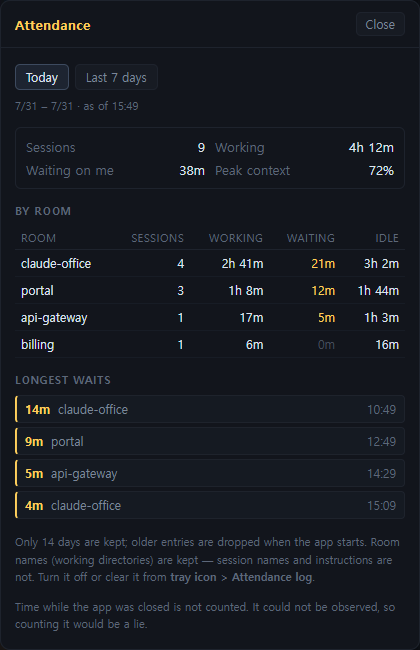
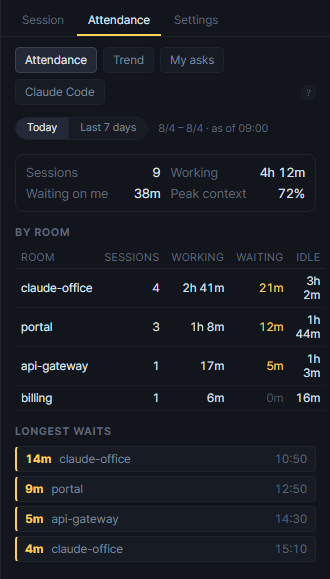
docs: 캡처를 새 화면으로 다시 굽고 README·문서를 맞춘다 (#116)
5단계로 나눈 UI/UX 정리의 마무리. 앞 커밋에서 아이콘을 도형으로 바꾸고 미니 위계를 맞췄고,
여기서는 캡처와 문서를 화면과 일치시킨다.

## 캡처 여덟 장 (docs/images/{en,ko}/)

- `office.png` — 목록 열 · 대기 칩 · 패널 탭이 다 든 전경
- `waiting.png` — 대기 방만 잘라 2배로. 말풍선에 **무엇을 묻는지**가 실려 있다
- `panel.png` — 대기 카드 · 접힌 요약 · 바닥 고정 버튼이 보이는 세션 판
- `attendance.png` — 창이 아니라 패널 판이라 420px → 330px

굽는 동안 걸린 것을 `docs/architecture.md`의 "디버그 입구"에 넷 더 적었다:

- **페이지의 `Date`를 픽스처의 "지금"으로 고정해야 한다.** 실제 시계로 찍으면 `0분`·`방금`이 박힌다
- 창을 갈아 끼울 때 앞 창을 먼저 없애면 앱이 종료돼 다음 로드가 `ERR_FAILED`로 끊긴다
- **말풍선이 떠 있는 순간은 찍어서 골라야 한다** — 8초 주기로 4.8초만 뜨고 위상이 흩어져 있다.
  흰 픽셀을 세고, 기다리는 게는 세 줄을 돌리므로 24초를 훑어 **가장 넓은** 것을 고른다
- 패널을 내용 높이에 맞출 때 `scrollHeight`는 못 쓴다 — 내용이 짧으면 상자 높이를 돌려준다

`__office.layout`을 디버그 입구에 냈다. 방이 화면 어디인지는 캔버스라 DOM으로 물어볼 수 없는데,
캡처를 방에 딱 맞게 자르려면 그 답이 필요하다.

## 문서

- README 두 언어 — 대기 칩 · 세션 목록 · 양쪽 접기 · 패널 세 판 · 요약 접기 · 바닥 고정,
  그리고 사라진 큰 시계
- `docs/panel.md` — 머리말을 판 셋 구조로 다시 쓰고, 330px에서 방 탭이 넘쳐 줄을 접은 경위를 남겼다
- `docs/attendance.md` — 창이 아니라 판이다. 캡션이 하나로 합쳐진 것도
- `docs/architecture.md` — 파일 지도의 renderer 항목, 그리고 손댈 만한 곳에 세 항목:
  `style.css`(리터럴 hex는 정의부 밖에 없다 · `display`를 정하면 `[hidden]`도 같이) ·
  `ICONS`/`icon()` · `RAIL_GROUPS`

검증: npm test 159개 통과 · npm run icons(아이콘 결과 변화 없음) ·
electron-builder --win --dir 통과 · 헤드리스 18장 재확인.

diff --git a/README.ko.md b/README.ko.md
@@ -49,7 +49,9 @@
 - 백그라운드 잡이 추천 답을 남겼으면 패널에서 **한 번에 복사**할 수 있다 (붙여넣기는 사람이 한다)
 - 트레이 아이콘에 **노란 점**이 붙고, **OS 알림**(Windows 토스트 · 맥 알림)이 뜬다 —
   누르면 창이 열리며 그 자리가 선택된다
-- 상단바에 `1 입력 대기 · 최장 3분`처럼 가장 오래 방치된 시간이 쌓인다
+- 상단바에 **`2 입력 대기 · 최장 3분` 칩**이 뜬다 — 화면에서 배경이 채워진 것은 이것뿐이다.
+  누르면 **가장 오래 기다리는 자리**가 열린다. 왼쪽 세션 목록에도 맨 위 묶음으로 서고,
+  기다린 시간이 1초마다 올라간다. 답하고 나면 칩과 묶음이 **자리째 사라진다**
 - 답하지 않고 두면 **5 · 15 · 30 · 60분째에 다시 부르고**, 5분을 넘기면 **트레이 아이콘이 깜빡인다** —
   토스트는 스쳐 지나가지만(회의 중이었거나 전체화면이었거나) 트레이는 계속 그 자리에 있다
 
@@ -63,24 +65,31 @@
 
 ## 오른쪽 패널
 
-<img src="docs/images/ko/panel.png" width="345" alt="세션 패널 — 컨텍스트 게이지·서브에이전트·타임라인·재접속 명령" align="right" />
+<img src="docs/images/ko/panel.png" width="345" alt="세션 패널 — 대기 카드·컨텍스트 게이지·서브에이전트·할 일·타임라인" align="right" />
 
-자리를 클릭하면 그 세션의 속사정이 나온다.
+패널은 세 갈래다 — **세션 · 출근부 · 설정**. 자리를 클릭하면 어느 판을 보고 있었든 세션으로 돌아온다.
 
+자리를 클릭하면 그 세션의 속사정이 나온다. **읽는 순서가 곧 급한 순서다.**
+
+- 나를 기다리는 중이면 **노란 카드가 이름 바로 아래**에 선다 — 무엇을 묻는지, 몇 분째인지,
+  추천 답이 있으면 복사 버튼까지
 - **컨텍스트 게이지** — 토큰 · 창 크기 · 모델
-- 그 세션의 **모델 · 컨텍스트 창 · 추론 강도 · Fast** (계정 값이 아니라 세션마다 다른 값이다)
+- **지금 상황**
 - 붙어 있는 **서브에이전트**와 받은 지시
-- **지금 상황 · 최근 지시 · 연결된 MR**
+- `터미널 · 가동 47분 · 갱신 방금 전` 한 줄과 **자세히** — 모델 · 컨텍스트 창 · 추론 강도 ·
+  Fast · PID · 모드처럼 늘 보지 않는 값은 접혀 있다(계정 값이 아니라 세션마다 다른 값이다)
+- **최근 지시 · 처음 지시 · 연결된 MR**
 - 플랜 모드로 **승인받은 계획** — 제목 한 줄과 계획서를 여는 버튼
 - 세션이 스스로 세운 **할 일 목록** — `할 일 2/6`과 진행 막대, 아직 안 끝난 항목.
   진행 중인 한 줄만 또렷하고, 차례를 기다리는 항목에는 `#3 끝나야 시작`이 붙는다.
   할 일을 안 쓴 세션에는 안 뜬다
 - **타임라인** — 받은 지시(노랑) ↔ 한 말(파랑)
-- 맨 아래 **터미널에서 열기** — 그 세션의 작업 디렉터리에서 터미널을 띄워 그 세션에 다시 붙는다.
+- **바닥에 붙어 있는 터미널에서 열기** — 위 내용이 길어도 스크롤에 묻히지 않는다.
+  그 세션의 작업 디렉터리에서 터미널을 띄워 그 세션에 다시 붙는다.
   Windows Terminal이 있으면 열려 있는 창에 새 탭으로 붙는다. 옆의 **복사 버튼**으로
   명령만 받아 갈 수도 있다
 
-아무것도 선택하지 않으면 시계와 **계정 사용량**(세션 5시간 · 주간 7일)이 기본 화면이다.
+아무것도 선택하지 않으면 **사무실 요약**과 **계정 사용량**(세션 5시간 · 주간 7일)이 기본 화면이다.
 사용량은 statusline에 tap을 심어야 나오는데, 트레이 메뉴 **사용량 연동(statusline)**이 대신 심어 준다.
 말풍선 읽는 법은 우측 하단 **물음표**를 누르면 나온다.
 
@@ -88,10 +97,10 @@
 
 ## 출근부
 
-상단바 **출근부** 버튼. 지금 몇 개가 대기 중인지는 사무실이 보여주지만,
+패널의 **출근부** 탭(상단바 버튼으로도 간다). 지금 몇 개가 대기 중인지는 사무실이 보여주지만,
 **하루에 몇 분을 방치했는지는 기록이 없으면 알 수 없다.**
 
-<img src="docs/images/ko/attendance.png" width="420" alt="출근부 — 오늘과 최근 7일, 방별 내역, 오래 기다리게 한 순간" align="right" />
+<img src="docs/images/ko/attendance.png" width="330" alt="출근부 — 오늘과 최근 7일, 방별 내역, 오래 기다리게 한 순간" align="right" />
 
 - 오늘 · 최근 7일 — 세션 수 · 작업 시간 · **내가 답을 기다리게 한 시간** · 최고 컨텍스트
 - 방별 내역과 **오래 기다리게 한 순간** (1분 이상만)
@@ -130,9 +139,14 @@ xattr -cr "/Applications/Claude Office.app"
 - 모노레포처럼 작업 디렉터리가 여러 개면 설정에서 **⊞로 부모 아래를 한 방으로 묶고**,
   `src`처럼 정체 불명인 이름에는 **별칭**을 붙인다. 근태 기록은 묶이지 않고 작업 디렉터리
   이름 그대로 남는다 — 규칙을 바꿔도 과거 기록과 이어진다
-- 방이 많아지면 상단바 오른쪽 칸에 **이름 일부를 적어 거른다.** 자주 보는 방은 설정에서
-  `☆`로 맨 앞에 고정하고, 관심 없는 방은 `▥`로 접는다 — 셋 다 보기만 바꾸므로 접어 둔
+- 왼쪽 **세션 목록**이 상태별로 묶여 있다 — 나를 기다림 · 헤매는 중 · 실패 · 작업 중 ·
+  쉬는 중 · 퇴근한 작업. 급한 것이 늘 맨 위라 방이 스무 개여도 훑을 필요가 없다.
+  누르면 그 자리가 열리고, 사무실에서 자리를 눌러도 목록의 표시가 따라온다
+- 방이 많아지면 목록 위 칸에 **이름 일부를 적어 거른다.** 자주 보는 방은 설정에서
+  `☆`로 맨 앞에 고정하고, 관심 없는 방은 접는다 — 셋 다 보기만 바꾸므로 접어 둔
   방도 알림은 그대로 온다. 가려진 방이 있으면 `3개 숨김` 배지가 뜨고, 누르면 한꺼번에 풀린다
+- **양쪽 열을 접을 수 있다** — 상단바의 두 버튼이나 `Ctrl+[` · `Ctrl+]`. 둘 다 접으면
+  창 전체가 사무실이다. 접은 채로 껐다 켜도 그대로다
 - **작게 띄우기** — 상단바의 `▭` 버튼이나 트레이 메뉴에서 켜면 테두리 없는 작은 창이
   **항상 위**에 뜬다. 사무실만 남고 상단바 한 줄에 숫자만 붙는다. 좁으니 방은 세 개까지,
   **기다리는 방과 헤매는 방이 앞으로** 온다. 자리를 누르면 원래 크기로 돌아오며 그 자리가

diff --git a/README.md b/README.md
@@ -56,7 +56,10 @@ your answer** —
   (you still paste it yourself)
 - A **yellow dot** goes on the tray icon and an **OS notification** fires (Windows toast · macOS
   notification) — clicking it opens the window with that desk selected
-- The top bar keeps a running count like `1 waiting on you · longest 3m`
+- The top bar shows a **`2 waiting on you · longest 3m` chip** — the only filled thing on the
+  screen. Click it and the one **waiting longest** opens. It also stands as the top group in the
+  left-hand session list, counting up every second. Answer, and the chip and the group **vanish
+  entirely**
 - Leave it unanswered and it **calls again at 5 · 15 · 30 · 60 minutes**, and past 5 minutes the
   **tray icon starts blinking** — a toast slides past (you were in a meeting, or full-screen)
   but the tray stays where it is
@@ -73,25 +76,33 @@ lands in the panel and the notification.
 
 ## The right-hand panel
 
-<img src="docs/images/en/panel.png" width="345" alt="Session panel — context gauge, subagents, timeline, reattach command" align="right" />
+<img src="docs/images/en/panel.png" width="345" alt="Session panel — waiting card, context gauge, subagents, to-dos, timeline" align="right" />
 
-Click a desk to see what that session is really up to.
+The panel has three tabs — **Session · Attendance · Settings**. Clicking a desk brings you back
+to Session from wherever you were.
 
+Click a desk to see what that session is really up to. **The reading order is the urgency order.**
+
+- If it is waiting on you, a **yellow card sits right under the name** — what it is asking, how
+  long it has been, and a copy button when there is a suggested reply
 - **Context gauge** — tokens · window size · model
-- That session's **model · context window · effort · Fast** (per-session values, not account ones)
+- **Right now**
 - Attached **subagents** and the instruction each was given
-- **Right now · latest instruction · linked MRs**
+- One line — `Terminal · Up 47m · Updated 1m ago` — plus **Details**, which unfolds the values you
+  do not read every time: model · context window · effort · Fast · PID · mode (per-session values,
+  not account ones)
+- **Latest instruction · first instruction · linked MRs**
 - The **plan it got approved** in plan mode — its title, and a button that opens the plan file
 - The session's own **to-do list** — `2/6` with a progress bar and whatever is still open. Only
   the item in progress is bright; ones waiting their turn are marked `waits on #3`. Sessions that
   never wrote a list get no block at all
 - **Timeline** — instructions received (yellow) ↔ things said (blue)
-- **Open in terminal** at the bottom — launches a terminal in that session's working directory
-  and reattaches to it. If Windows Terminal is present it comes up as a new tab in the open
+- **Open in terminal, pinned to the bottom** — it never scrolls out of reach, however long the
+  rest gets. Launches a terminal in that session's working directory and reattaches to it. If Windows Terminal is present it comes up as a new tab in the open
   window. The **copy button** next to it hands you just the command
 
-With nothing selected, the default view is a clock and your **account usage** (5-hour session ·
-7-day week). Usage only appears once a tap is installed in your statusline — the tray menu's
+With nothing selected, the default view is an **office summary** and your **account usage**
+(5-hour session · 7-day week). Usage only appears once a tap is installed in your statusline — the tray menu's
 **Usage feed (statusline)** sets that up for you. The **question mark** in the bottom right
 explains how to read the bubbles.
 
@@ -99,10 +110,11 @@ explains how to read the bubbles.
 
 ## Attendance
 
-The **Attendance** button in the top bar. The office shows you how many are waiting right now,
+The panel's **Attendance** tab (the top-bar button goes there too). The office shows you how many
+are waiting right now,
 but **without a record there is no way to know how many minutes you left them waiting today.**
 
-<img src="docs/images/en/attendance.png" width="420" alt="Attendance — today and the last 7 days, by room, longest waits" align="right" />
+<img src="docs/images/en/attendance.png" width="330" alt="Attendance — today and the last 7 days, by room, longest waits" align="right" />
 
 - Today · last 7 days — session count · time working · **time spent waiting on me** · peak context
 - A per-room breakdown and the **longest waits** (only those over a minute)
@@ -145,10 +157,16 @@ Automatic installation is blocked for unsigned macOS builds, so there a new vers
   under a parent into one room** and give a cryptic name like `src` an **alias**. Attendance is
   not grouped — it keeps recording the working-directory name, so changing the rule never breaks
   continuity with past records
-- Once you have a lot of rooms, **filter them by name** in the top-right box. Pin the ones you
-  watch with `☆` in Settings and collapse the rest with `▥` — all three change the view only,
+- The left-hand **session list** groups everything by state — waiting on you · going in circles ·
+  failed · working · resting · clocked out. The urgent group is always on top, so twenty rooms
+  need no scanning. Click a row to open that desk; click a desk in the office and the row
+  highlights to match
+- Once you have a lot of rooms, **filter them by name** in the box above the list. Pin the ones you
+  watch with `☆` in Settings and collapse the rest — all three change the view only,
   so a collapsed room still nudges you. A `3 hidden` badge appears while anything is out of
   sight, and clicking it clears the lot
+- **Either side column folds away** — the two buttons in the top bar, or `Ctrl+[` · `Ctrl+]`.
+  Fold both and the window is all office. It stays folded across restarts
 - **Shrink to a corner** — the `▭` button in the top bar (or the tray menu) drops the office
   into a small frameless window that stays **always on top**. Just the office and a one-line
   count. Space is tight, so it keeps three rooms and puts the ones **waiting on you or going in

diff --git a/docs/panel.md b/docs/panel.md
@@ -1,8 +1,34 @@
 # 오른쪽 패널
 
-캐릭터(또는 그 자리)를 클릭하면 그 세션의 컨텍스트 게이지·붙어 있는 서브에이전트·지금 상황·
-승인받은 계획·할 일 목록·최근 지시·연결된 MR·타임라인이 뜨고, 맨 아래에 **터미널에서 열기** 버튼과
-`claude attach <id>`(터미널 세션은 `claude --resume <sessionId>`) 복사 버튼이 있다.
+## 판이 셋이다 — 세션 · 출근부 · 설정
+
+설정과 출근부는 원래 `<dialog>`였다. 창은 배경 차단과 Esc 닫기를 공짜로 줬지만 420px에
+갇혀 방 목록·표가 좁았고, **사무실을 보면서 만질 수 없었다.** 셋 다 패널 판으로 들어왔다 (#115).
+
+- 세 판의 뼈대는 **고정이고 숨겨 둔다**(`#pane-session`·`#pane-att`·`#pane-cfg`).
+  갈아 끼우면 안쪽 id가 매번 새로 생겨 그때마다 이벤트를 다시 달아야 한다
+- **보이기(`applyPanelTab`)와 내용 다시 그리기(`drawPanelView`)를 갈라 뒀다.** 앞은 스냅샷마다
+  불러도 싸지만, 뒤는 판을 다시 짜므로 스크롤 자리와 펼쳐 둔 것이 초기화된다
+- **자리를 고르면 세션 판으로 돌아온다.** 설정을 열어 둔 채 자리를 눌렀을 때 아무 반응이
+  없으면 고장으로 읽힌다
+- 상단바의 설정·출근부 버튼은 그 판을 고르는 문이고, **패널이 접혀 있으면 먼저 펴 준다**
+- 패널은 330px이라 **420px 창보다 좁다.** 방 탭이 넘쳐서(이름이 밖으로 밀려 나가고 세기 칸이
+  잘렸다) 이름이 한 줄을 통째로 쓰고 컨트롤 셋이 다음 줄을 나눠 갖게 고쳤다
+
+## 세션 판 — 순서가 곧 위계다
+
+전에는 섹션 제목 일곱아홉 개가 전부 같은 크기·같은 색이어서, 스크롤하는 동안 "나를 기다린다"와
+"처음 지시"가 동등하게 지나갔다. 지금은 이 순서로만 읽힌다 (#113):
+
+나를 기다림 → 컨텍스트 → 지금 상황 → 서브에이전트 → 요약 → 계획·할 일 → 지시 → 타임라인
+
+- **대기만 카드이고 나머지는 라벨이다.** 위계를 색이 아니라 형태로 낸다
+- 기본 정보 열두 개는 `터미널 · 가동 47분 · 갱신 방금 전` 한 줄로 접었다(`<details>`,
+  JS 없이 열린다). 값은 하나도 없애지 않았다 — 늘 보는 것이 셋뿐이라 접은 것이다
+- 패널은 두 층이다 — 굴러가는 몸통(`.panel-body`)과 **바닥에 고정된** 주 동작(`.jump`).
+  전에는 내용 맨 끝이라 타임라인이 길면 묻혔다
+- 맨 아래에 **터미널에서 열기** 버튼과 `claude attach <id>`(터미널 세션은
+  `claude --resume <sessionId>`) 복사 버튼이 있다
 
 ## 만진 파일 · 편집
 

diff --git a/docs/attendance.md b/docs/attendance.md
@@ -21,12 +21,14 @@
 - 쓰는 탭이 둘(근태 · 내가 시킨 것)이라 판마다 그리지만 **상태는 하나다** — 한쪽에서 바꾸면
   다른 탭도 그 구간으로 열린다
 
-창을 닫았다 열면 보던 탭이 그대로다. 앱을 껐다 켜면 처음으로 — 저장까지 할 값은 아니다
-(설정 창과 같은 규칙).
+다른 판으로 갔다 돌아오면 보던 탭이 그대로다. 앱을 껐다 켜면 처음으로 — 저장까지 할 값은
+아니다(설정 판과 같은 규칙).
 
 ## 설명은 `?` 캡션으로
 
-판마다 붙던 설명 문단을 **떠오르는 `?` 캡션**으로 옮겼다(설정 창과 같은 방식·같은 헬퍼).
+판마다 붙던 설명 문단을 **떠오르는 `?` 캡션**으로 옮겼다(설정 판과 같은 방식·같은 헬퍼).
+캡션은 body의 자식 하나뿐이고 패널을 기준으로 자리를 잡는다 — 전에는 창마다 하나씩 두고
+`<dialog>`가 top layer라는 것에 기대고 있었다.
 보이는 자리에는 **숫자와 사실만** 남는다.
 
 **`?`는 자기가 설명하는 것 옆에 붙는다.**
